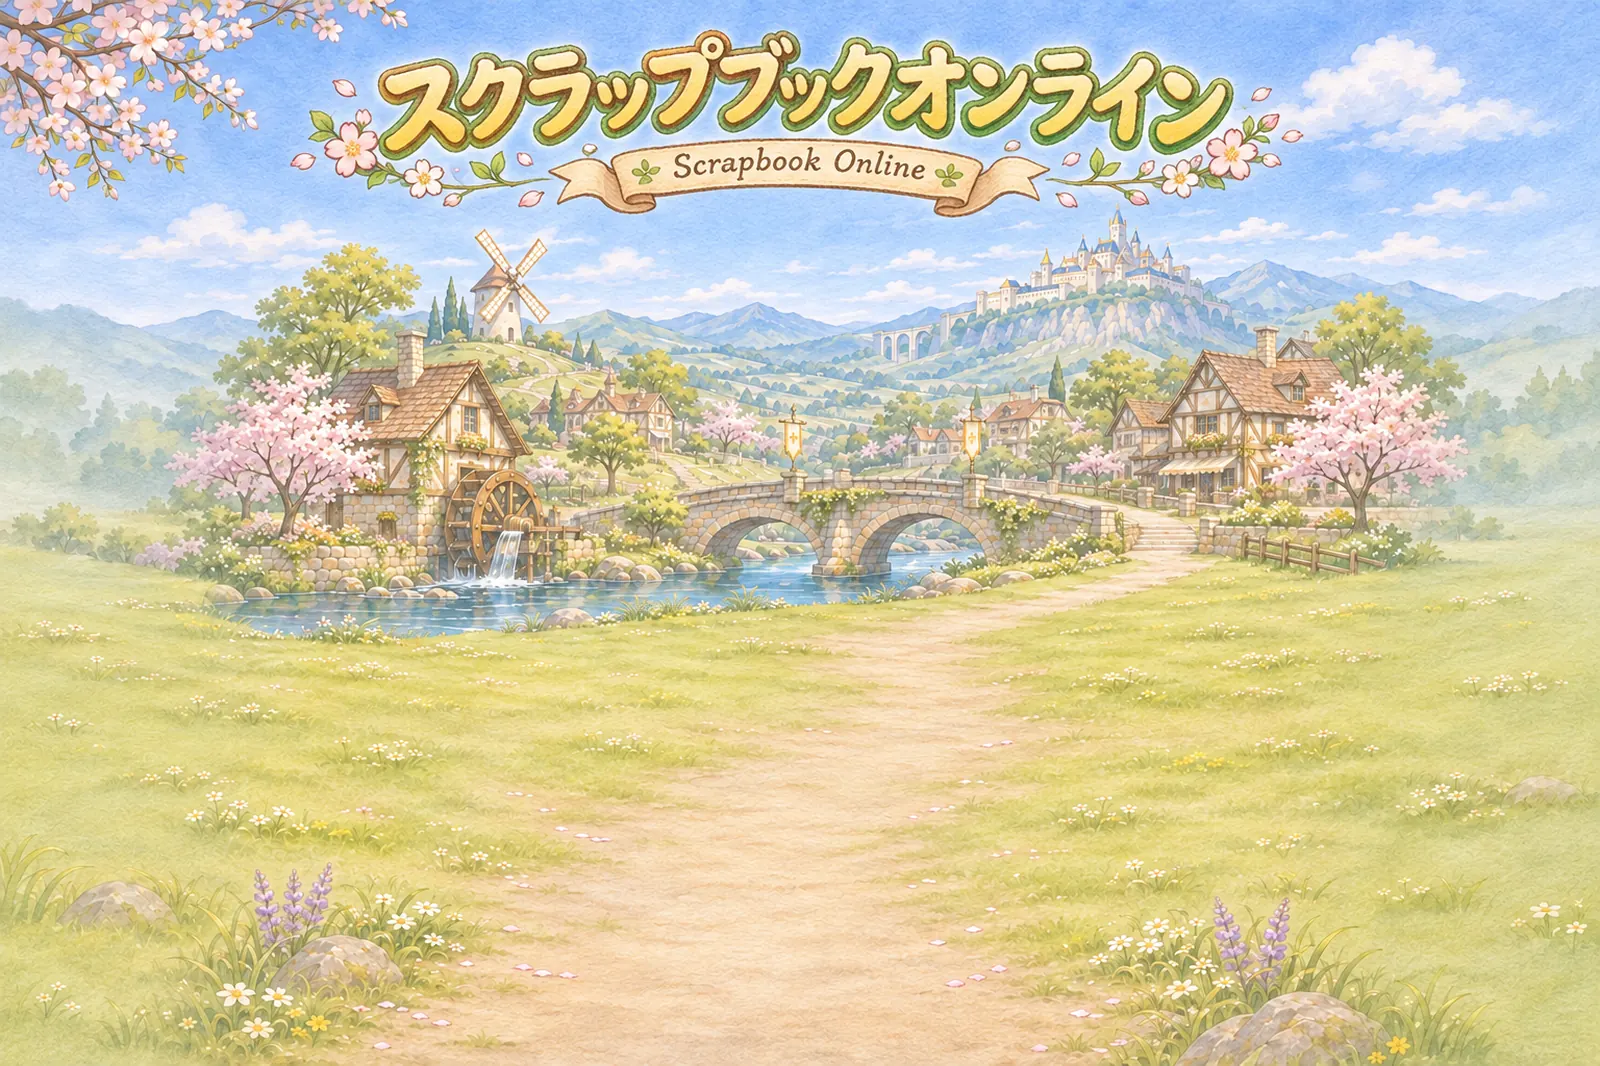
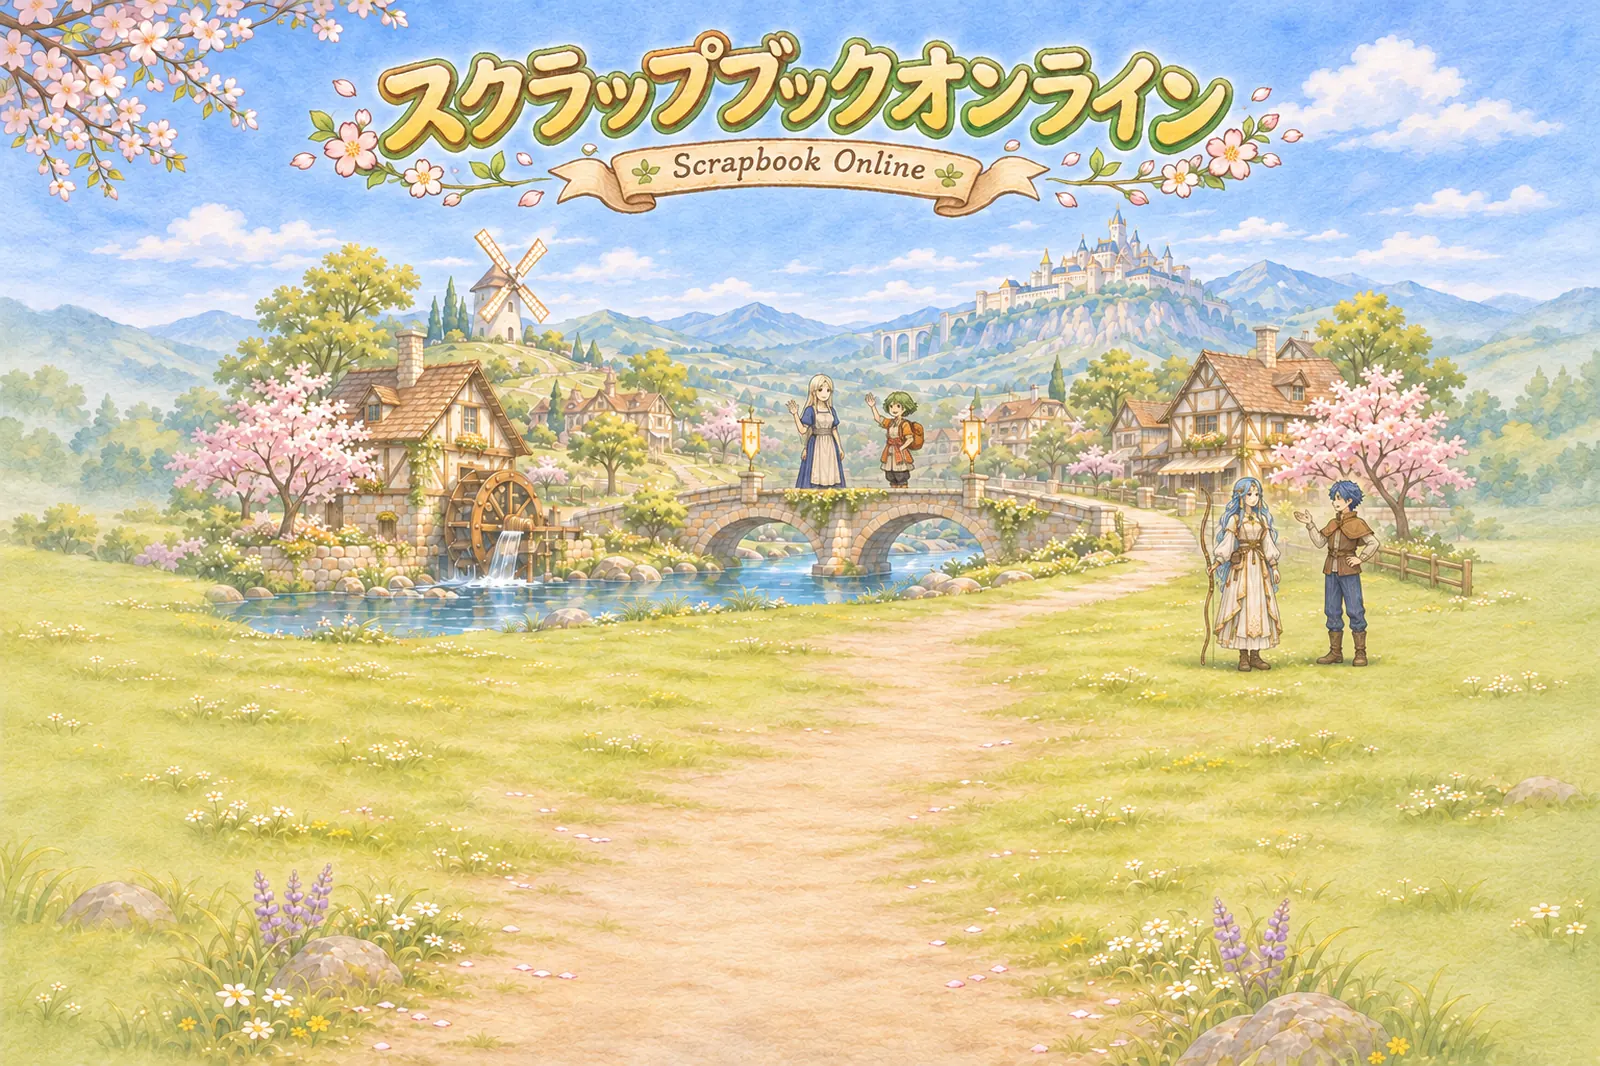
ログイン前ホーム画面：空き帯を詰め背景を下まで伸ばし、小さな4人入りの背景・線画アイコンに
Claude-Session: https://claude.ai/code/session_01YTg7wiWpiHL6LhZnJLwoce

diff --git a/web/shell/sbocli.html b/web/shell/sbocli.html
@@ -1417,6 +1417,13 @@
 		flex: none;
 		font-size: 14px;
 		line-height: 1;
+		width: 1.3em;
+		height: 1.3em;
+		vertical-align: middle;
+	}
+	.sbo-sec-h .sbo-ic2 {
+		margin-right: 4px;
+		vertical-align: -0.2em;
 	}
 	/* お知らせ */
 	.sbo-news {
@@ -1555,19 +1562,28 @@
 		min-height: 60px;
 	}
 	/* ---- ログイン前ホーム画面の背景（ロゴ入り・人物なしの 1 枚絵）。#sbo-quick が出てから読まれる。版はビルドのコミット ----
-	   既定＝スマホ縦（幅 900px 未満、または縦長）：ページ全体が縦スクロール。縦長の絵（1024x1536 = 高さ 150vw）を先頭に幅いっぱいで敷き（絵ごとスクロール）、
-	   その下は絵の最下行と同じ無地色。絵の上〜52%（ロゴと町）はスペーサーで空け、さらに遊ぶボタンの真上に約 96px の帯を空ける
-	   （あとでキャラ 4 人を描き足す帯）。画像が読めない間・失敗時は、絵の背後のうす緑のグラデーションが見える。 */
+	   既定＝スマホ縦（幅 900px 未満、または縦長）：ページ全体が縦スクロール。絵は幅いっぱいで上端から敷き（絵ごとスクロール）、
+	   絵より下は絵の最下行の色（--bg-end）。絵の上〜 --town-bottom（ロゴと町）はスペーサーで空け、遊ぶボタンはそのすぐ下。
+	   絵の差し替え（1024x2048 = 1:2）はここの変数だけ：
+	     今（1024x2048 = 1:2）  --bg-ratio: 2;    --town-bottom: 0.42;  --bg-w: max(100vw, calc(100dvh / 2));（= cover・横幅いっぱい・上端そろえ）
+	     以前（1024x1536）      --bg-ratio: 1.5;  --town-bottom: 0.52;  --bg-w: 100vw;
+	   --bg-w = 絵の表示幅、--bg-h = 表示高さ、--town-bottom = 町の下端（絵の高さに対する割合）。絵の最下行の色が変わったら --bg-end も。
+	   画像が読めない間・失敗時は、絵の背後のうす緑のグラデーションが見える。 */
 	body.sbo-loginscr #sbo-quick.sbo-show {
+		--bg-ratio: 2;
+		--town-bottom: 0.42;
+		--bg-w: max(100vw, calc(100dvh / 2));
+		--bg-end: #cdd09b;
+		--bg-h: calc(var(--bg-w) * var(--bg-ratio));
 		display: block;
 		overflow-x: hidden;
 		overflow-y: auto;
 		overscroll-behavior: contain;
 		-webkit-overflow-scrolling: touch;
 		background:
-			url(/login/loginbg-mobile.webp?v=@@SBO_BUILD_COMMIT@@) top center / 100% auto no-repeat local,
-			linear-gradient(180deg, #f4f8de 0%, #dfe9bd 55%, #eaf1c7 100%) top center / 100% 150vw no-repeat local,
-			#eaf1c7;
+			url(/login/loginbg-mobile.webp?v=@@SBO_BUILD_COMMIT@@) top center / var(--bg-w) auto no-repeat local,
+			linear-gradient(180deg, #f4f8de 0%, #dfe9bd 40%, var(--bg-end) 100%) top center / var(--bg-w) var(--bg-h) no-repeat local,
+			var(--bg-end);
 	}
 	body.sbo-loginscr #sbo-quick .sbo-card.sbo-home {
 		height: auto;
@@ -1581,9 +1597,9 @@
 	body.sbo-loginscr .sbo-home > :last-child {
 		margin: 0;
 	}
-	/* スペーサー：絵の 52%（78vw）＋キャラの帯 96px。ここには何も置かない */
+	/* スペーサー：絵の町の下端（--town-bottom）まで。キャラ用の帯は無し。ここには何も置かない */
 	body.sbo-loginscr .sbo-hero {
-		height: calc(78vw + 96px);
+		height: calc(var(--bg-h) * var(--town-bottom));
 		pointer-events: none;
 	}
 	/* ID・パスワードのカードは、ロゴの下の中央に */
@@ -1625,7 +1641,7 @@
 			overflow-wrap: anywhere;
 		}
 		body.sbo-loginscr #sbo-quick .sbo-home .sbo-links .sbo-ic2 {
-			font-size: 18px;
+			font-size: 17px;
 		}
 	}
 	/* PC・横長（幅 900px 以上・高さ 560px 以上・横長）：絵は cover/center で固定。ロゴ・町（上〜約 50%）には何も重ねない。
@@ -1686,7 +1702,8 @@
 			overscroll-behavior: contain;
 		}
 		body.sbo-loginscr .sbo-home .sbo-col-acc { left: 12px; }
-		body.sbo-loginscr .sbo-home .sbo-news { right: 12px; }
+		/* 右の桜の下に立つ人物（幅 75〜79%）を隠さないよう、お知らせは右端の細めの枠に */
+		body.sbo-loginscr .sbo-home .sbo-news { right: 12px; width: min(17vw, 260px); }
 		body.sbo-loginscr .sbo-news:not(.sbo-has) { display: none; }
 		body.sbo-loginscr .sbo-home .sbo-links {
 			position: absolute;
@@ -2566,6 +2583,16 @@
 	<symbol id="sbo-ic-chat" viewBox="0 0 24 24"><path d="M5 4.5h14a2 2 0 0 1 2 2v8.5a2 2 0 0 1-2 2h-8l-4.5 3.5V17H5a2 2 0 0 1-2-2V6.5a2 2 0 0 1 2-2z"/></symbol>
 	<symbol id="sbo-ic-gamepad" viewBox="0 0 24 24"><path d="M7 7h10a4.5 4.5 0 0 1 4.4 5.4l-.8 4A2.6 2.6 0 0 1 16 17.6l-1-1.6H9l-1 1.6A2.6 2.6 0 0 1 3.4 16.4l-.8-4A4.5 4.5 0 0 1 7 7zM8 10v4M6 12h4M16 11v.5M18 13v.5"/></symbol>
 	<symbol id="sbo-ic-smile" viewBox="0 0 24 24"><circle cx="12" cy="12" r="8.5"/><path d="M8.5 14a4.2 4.2 0 0 0 7 0M9.3 9.5v.5M14.7 9.5v.5"/></symbol>
+	<symbol id="sbo-ic-book" viewBox="0 0 24 24"><path d="M12 6.5C10.5 5 8 4.5 4 4.5v14c4 0 6.5.5 8 2 1.5-1.5 4-2 8-2v-14c-4 0-6.5.5-8 2zM12 6.5v14"/></symbol>
+	<symbol id="sbo-ic-mail" viewBox="0 0 24 24"><rect x="3" y="5.5" width="18" height="13" rx="2"/><path d="M3.5 7.5l8.5 6 8.5-6"/></symbol>
+	<symbol id="sbo-ic-palette" viewBox="0 0 24 24"><path d="M12 3.5a8.5 8.5 0 1 0 0 17c1.4 0 2-1 1.5-2.2-.5-1.2.2-2.3 1.5-2.3H17a3.5 3.5 0 0 0 3.5-3.5C20.5 7 16.7 3.5 12 3.5zM7.5 11.5v.5M10 7.8v.5M14.5 7.8v.5"/></symbol>
+	<symbol id="sbo-ic-star" viewBox="0 0 24 24"><path d="M12 3.5l2.7 5.5 6 .9-4.4 4.2 1 6L12 17.2 6.7 20.1l1-6L3.3 9.9l6-.9z"/></symbol>
+	<symbol id="sbo-ic-plus" viewBox="0 0 24 24"><path d="M12 5v14M5 12h14"/></symbol>
+	<symbol id="sbo-ic-key" viewBox="0 0 24 24"><circle cx="8" cy="15.5" r="4"/><path d="M10.8 12.7L20 3.5M16.5 7l3 3"/></symbol>
+	<symbol id="sbo-ic-gear" viewBox="0 0 24 24"><circle cx="12" cy="12" r="2.8"/><circle cx="12" cy="12" r="5.7"/><path d="M12 2.5v2M12 19.5v2M2.5 12h2M19.5 12h2M5.3 5.3l1.4 1.4M17.3 17.3l1.4 1.4M5.3 18.7l1.4-1.4M17.3 6.7l1.4-1.4"/></symbol>
+	<symbol id="sbo-ic-trash" viewBox="0 0 24 24"><path d="M4.5 7h15M9.5 7V4.5h5V7M6.5 7l.8 12.5h9.4l.8-12.5M10 11v5M14 11v5"/></symbol>
+	<symbol id="sbo-ic-megaphone" viewBox="0 0 24 24"><path d="M4 10v4h3l8 4.5v-13L7 10zM18 9.5a3.5 3.5 0 0 1 0 5M7 14l1.2 5h2.3l-1-3.5"/></symbol>
+	<symbol id="sbo-ic-help" viewBox="0 0 24 24"><circle cx="12" cy="12" r="8.5"/><path d="M9.6 9.6a2.5 2.5 0 0 1 4.8.9c0 1.7-2.4 2-2.4 3.5M12 16.8v.5"/></symbol>
 </svg>
 <header class="site-header">
 	<h1>スクラップブックオンライン</h1>
@@ -2602,23 +2629,23 @@
 					<div class="sbo-sec">
 						<h2 class="sbo-sec-h">アカウント管理</h2>
 						<div class="sbo-manage">
-							<button type="button" class="sbo-link sbo-mbtn" data-quick-other="1"><span class="sbo-ic2" aria-hidden="true">➕</span>別のアカウントを追加（ID・パスワード）</button>
-							<button type="button" class="sbo-link sbo-mbtn" id="sbo-quick-add-code"><span class="sbo-ic2" aria-hidden="true">🔑</span>復旧キーで追加</button>
-							<button type="button" class="sbo-link sbo-mbtn" id="sbo-quick-settings"><span class="sbo-ic2" aria-hidden="true">⚙</span>アカウント設定</button>
-							<button type="button" class="sbo-link sbo-mbtn sbo-danger" id="sbo-quick-forget"><span class="sbo-ic2" aria-hidden="true">🗑</span>この端末の記憶を消す</button>
+							<button type="button" class="sbo-link sbo-mbtn" data-quick-other="1"><svg class="sbo-ic sbo-ic2" aria-hidden="true"><use href="#sbo-ic-plus"/></svg>別のアカウントを追加（ID・パスワード）</button>
+							<button type="button" class="sbo-link sbo-mbtn" id="sbo-quick-add-code"><svg class="sbo-ic sbo-ic2" aria-hidden="true"><use href="#sbo-ic-key"/></svg>復旧キーで追加</button>
+							<button type="button" class="sbo-link sbo-mbtn" id="sbo-quick-settings"><svg class="sbo-ic sbo-ic2" aria-hidden="true"><use href="#sbo-ic-gear"/></svg>アカウント設定</button>
+							<button type="button" class="sbo-link sbo-mbtn sbo-danger" id="sbo-quick-forget"><svg class="sbo-ic sbo-ic2" aria-hidden="true"><use href="#sbo-ic-trash"/></svg>この端末の記憶を消す</button>
 						</div>
 					</div>
 				</div>
 				<div class="sbo-sec sbo-news">
-					<div class="sbo-news-h"><h2 class="sbo-sec-h">📢 お知らせ</h2><a class="sbo-link sbo-news-more" href="/changes" target="_blank" rel="noopener">もっと見る<span class="sbo-new-mark" hidden>NEW</span></a></div>
+					<div class="sbo-news-h"><h2 class="sbo-sec-h"><svg class="sbo-ic sbo-ic2" aria-hidden="true"><use href="#sbo-ic-megaphone"/></svg>お知らせ</h2><a class="sbo-link sbo-news-more" href="/changes" target="_blank" rel="noopener">もっと見る<span class="sbo-new-mark" hidden>NEW</span></a></div>
 					<div class="sbo-news-list"></div>
 				</div>
 				<div class="sbo-links">
-					<a class="sbo-link" href="https://github.com/uraraworks/SBO2003/wiki" target="_blank" rel="noopener"><span class="sbo-ic2" aria-hidden="true">📖</span>取扱説明書</a>
-					<a class="sbo-link" href="/feedback" target="_blank" rel="noopener"><span class="sbo-ic2" aria-hidden="true">✉</span>ご意見箱</a>
-					<a class="sbo-link" href="/kobo" target="_blank" rel="noopener"><span class="sbo-ic2" aria-hidden="true">🎨</span>ドット絵工房</a>
-					<a class="sbo-link" href="/credits" target="_blank" rel="noopener"><span class="sbo-ic2" aria-hidden="true">⭐</span>クレジット</a>
-					<button type="button" class="sbo-link" id="sbo-gp-link2"><span class="sbo-ic2" aria-hidden="true">🎮</span>ゲームパッド設定</button>
+					<a class="sbo-link" href="https://github.com/uraraworks/SBO2003/wiki" target="_blank" rel="noopener"><svg class="sbo-ic sbo-ic2" aria-hidden="true"><use href="#sbo-ic-book"/></svg>取扱説明書</a>
+					<a class="sbo-link" href="/feedback" target="_blank" rel="noopener"><svg class="sbo-ic sbo-ic2" aria-hidden="true"><use href="#sbo-ic-mail"/></svg>ご意見箱</a>
+					<a class="sbo-link" href="/kobo" target="_blank" rel="noopener"><svg class="sbo-ic sbo-ic2" aria-hidden="true"><use href="#sbo-ic-palette"/></svg>ドット絵工房</a>
+					<a class="sbo-link" href="/credits" target="_blank" rel="noopener"><svg class="sbo-ic sbo-ic2" aria-hidden="true"><use href="#sbo-ic-star"/></svg>クレジット</a>
+					<button type="button" class="sbo-link" id="sbo-gp-link2"><svg class="sbo-ic sbo-ic2" aria-hidden="true"><use href="#sbo-ic-gamepad"/></svg>ゲームパッド設定</button>
 				</div>
 			</div>
 			<!-- ID・パスワードでログイン（前に遊んでいた方・別のアカウントを追加） -->
@@ -2650,14 +2677,14 @@
 					</div>
 				</div>
 				<div class="sbo-sec sbo-news">
-					<div class="sbo-news-h"><h2 class="sbo-sec-h">📢 お知らせ</h2><a class="sbo-link sbo-news-more" href="/changes" target="_blank" rel="noopener">もっと見る<span class="sbo-new-mark" hidden>NEW</span></a></div>
+					<div class="sbo-news-h"><h2 class="sbo-sec-h"><svg class="sbo-ic sbo-ic2" aria-hidden="true"><use href="#sbo-ic-megaphone"/></svg>お知らせ</h2><a class="sbo-link sbo-news-more" href="/changes" target="_blank" rel="noopener">もっと見る<span class="sbo-new-mark" hidden>NEW</span></a></div>
 					<div class="sbo-news-list"></div>
 				</div>
 				<div class="sbo-links">
-					<a class="sbo-link" href="https://github.com/uraraworks/SBO2003/wiki" target="_blank" rel="noopener"><span class="sbo-ic2" aria-hidden="true">📖</span>取扱説明書</a>
-					<a class="sbo-link" href="/about" target="_blank" rel="noopener"><span class="sbo-ic2" aria-hidden="true">❓</span>どんなゲーム？</a>
-					<a class="sbo-link" href="/feedback" target="_blank" rel="noopener"><span class="sbo-ic2" aria-hidden="true">✉</span>ご意見箱</a>
-					<a class="sbo-link" href="/credits" target="_blank" rel="noopener"><span class="sbo-ic2" aria-hidden="true">⭐</span>クレジット</a>
+					<a class="sbo-link" href="https://github.com/uraraworks/SBO2003/wiki" target="_blank" rel="noopener"><svg class="sbo-ic sbo-ic2" aria-hidden="true"><use href="#sbo-ic-book"/></svg>取扱説明書</a>
+					<a class="sbo-link" href="/about" target="_blank" rel="noopener"><svg class="sbo-ic sbo-ic2" aria-hidden="true"><use href="#sbo-ic-help"/></svg>どんなゲーム？</a>
+					<a class="sbo-link" href="/feedback" target="_blank" rel="noopener"><svg class="sbo-ic sbo-ic2" aria-hidden="true"><use href="#sbo-ic-mail"/></svg>ご意見箱</a>
+					<a class="sbo-link" href="/credits" target="_blank" rel="noopener"><svg class="sbo-ic sbo-ic2" aria-hidden="true"><use href="#sbo-ic-star"/></svg>クレジット</a>
 				</div>
 			</div>
 		</div>
@@ -6562,7 +6589,7 @@
 			var gear = document.createElement('button');
 			gear.type = 'button';
 			gear.className = 'sbo-acc-gear';
-			gear.textContent = '⚙';
+			gear.innerHTML = '<svg class="sbo-ic" aria-hidden="true"><use href="#sbo-ic-gear"/></svg>';
 			gear.title = '「' + entryName(e) + '」の設定';
 			gear.setAttribute('aria-label', gear.title);
 			gear.addEventListener('click', function () { openSettings(e.t); });
